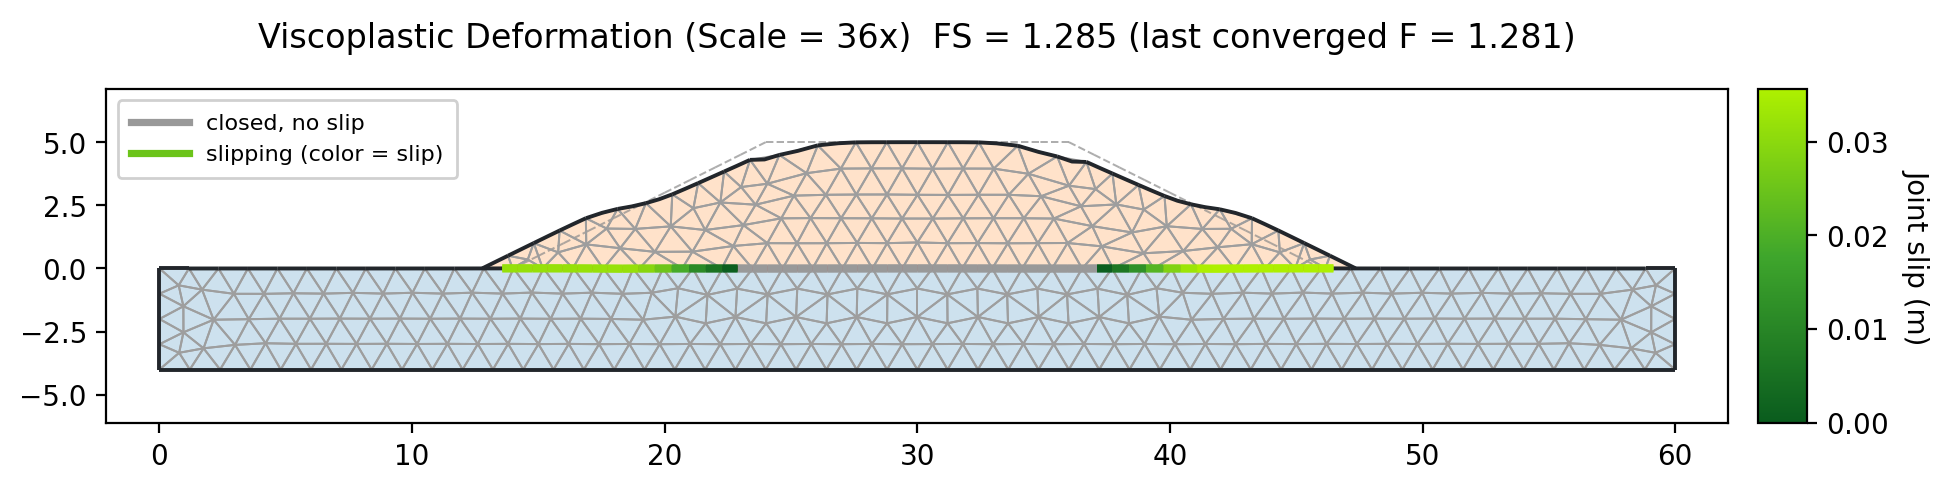
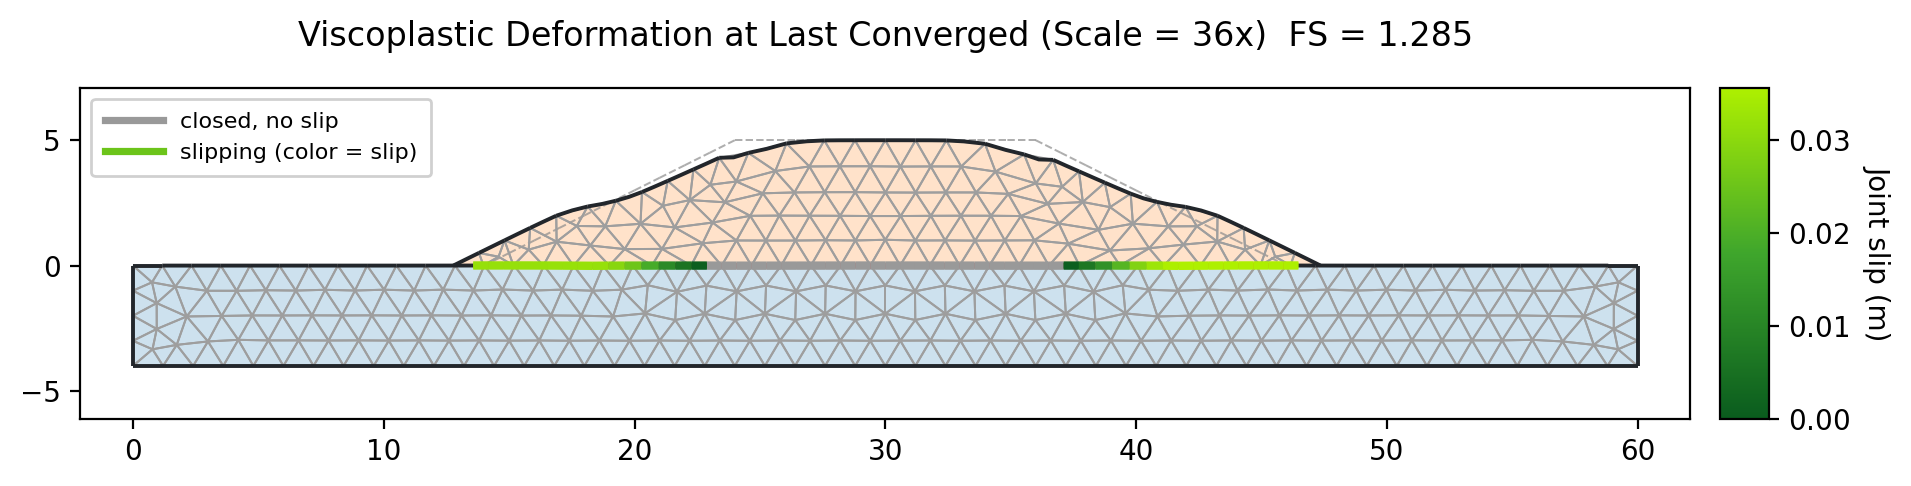
docs(fem): bonded-or-joint section shows the two mechanisms as program results (FEM-2 shear band across the layers; FEM-3 liner wedges sliding on the sheet); liner plot re-rendered from its saved solution with the corrected title
Claude-Session: https://claude.ai/code/session_01XjjT2aBxw8gY7EFdpoUcpj

diff --git a/docs/fem/reinforcement.md b/docs/fem/reinforcement.md
@@ -590,6 +590,11 @@ tension across the surface, and the only interface question is pullout, which th
 It corresponds to the limit equilibrium treatment — a force where the surface crosses the line — so the two engines compare like for
 like.
 
+In the [FEM-2](../tutorials/fem02_reinforcement.md) reinforced slope the band of shear strain at failure cuts
+through all six layers, and each layer carries its tension across it:
+
+![The FEM-2 reinforced slope at failure: the shear band crosses every layer](../tutorials/images/fem02_shear_strain_epp.png){width=1000}
+
 **Surface along the layer.** A joint is appropriate where the surface can run along the layer: a reinforced
 embankment on soft clay sliding on
 its base geotextile, a wrapped-face or block-faced wall where the fill between the sheets moves relative to them
@@ -597,6 +602,12 @@ and each sheet anchors to a facing, a smooth geomembrane or liner whose interfac
 any long flat sheet under a sliding mass. The interface shear strength along the sheet governs, the two sides move
 differently, and a bonded bar cannot represent it: it reports the bars at their cap while the mesh decides the
 answer.
+
+In the liner model of [FEM-3](../tutorials/fem03_block_wall_joints.md#a-smooth-geomembrane-liner-on-a-firm-foundation),
+where the liner is the weakest thing in the section, two wedges of fill slide outward on it. The liner's faces are
+colored by how far they have slipped; the middle stays closed, and the slip grows toward each toe:
+
+![The FEM-3 liner model: two wedges of fill sliding out on a jointed liner](../tutorials/images/fem03_deform_liner_jointed.png){width=1000}
 
 Joints are off by default, because tripled nodes and a penalty stiffness add cost. On a wall or a base sheet,
 running both ways answers the question: a bonded answer that matches the jointed one shows that the mechanism
